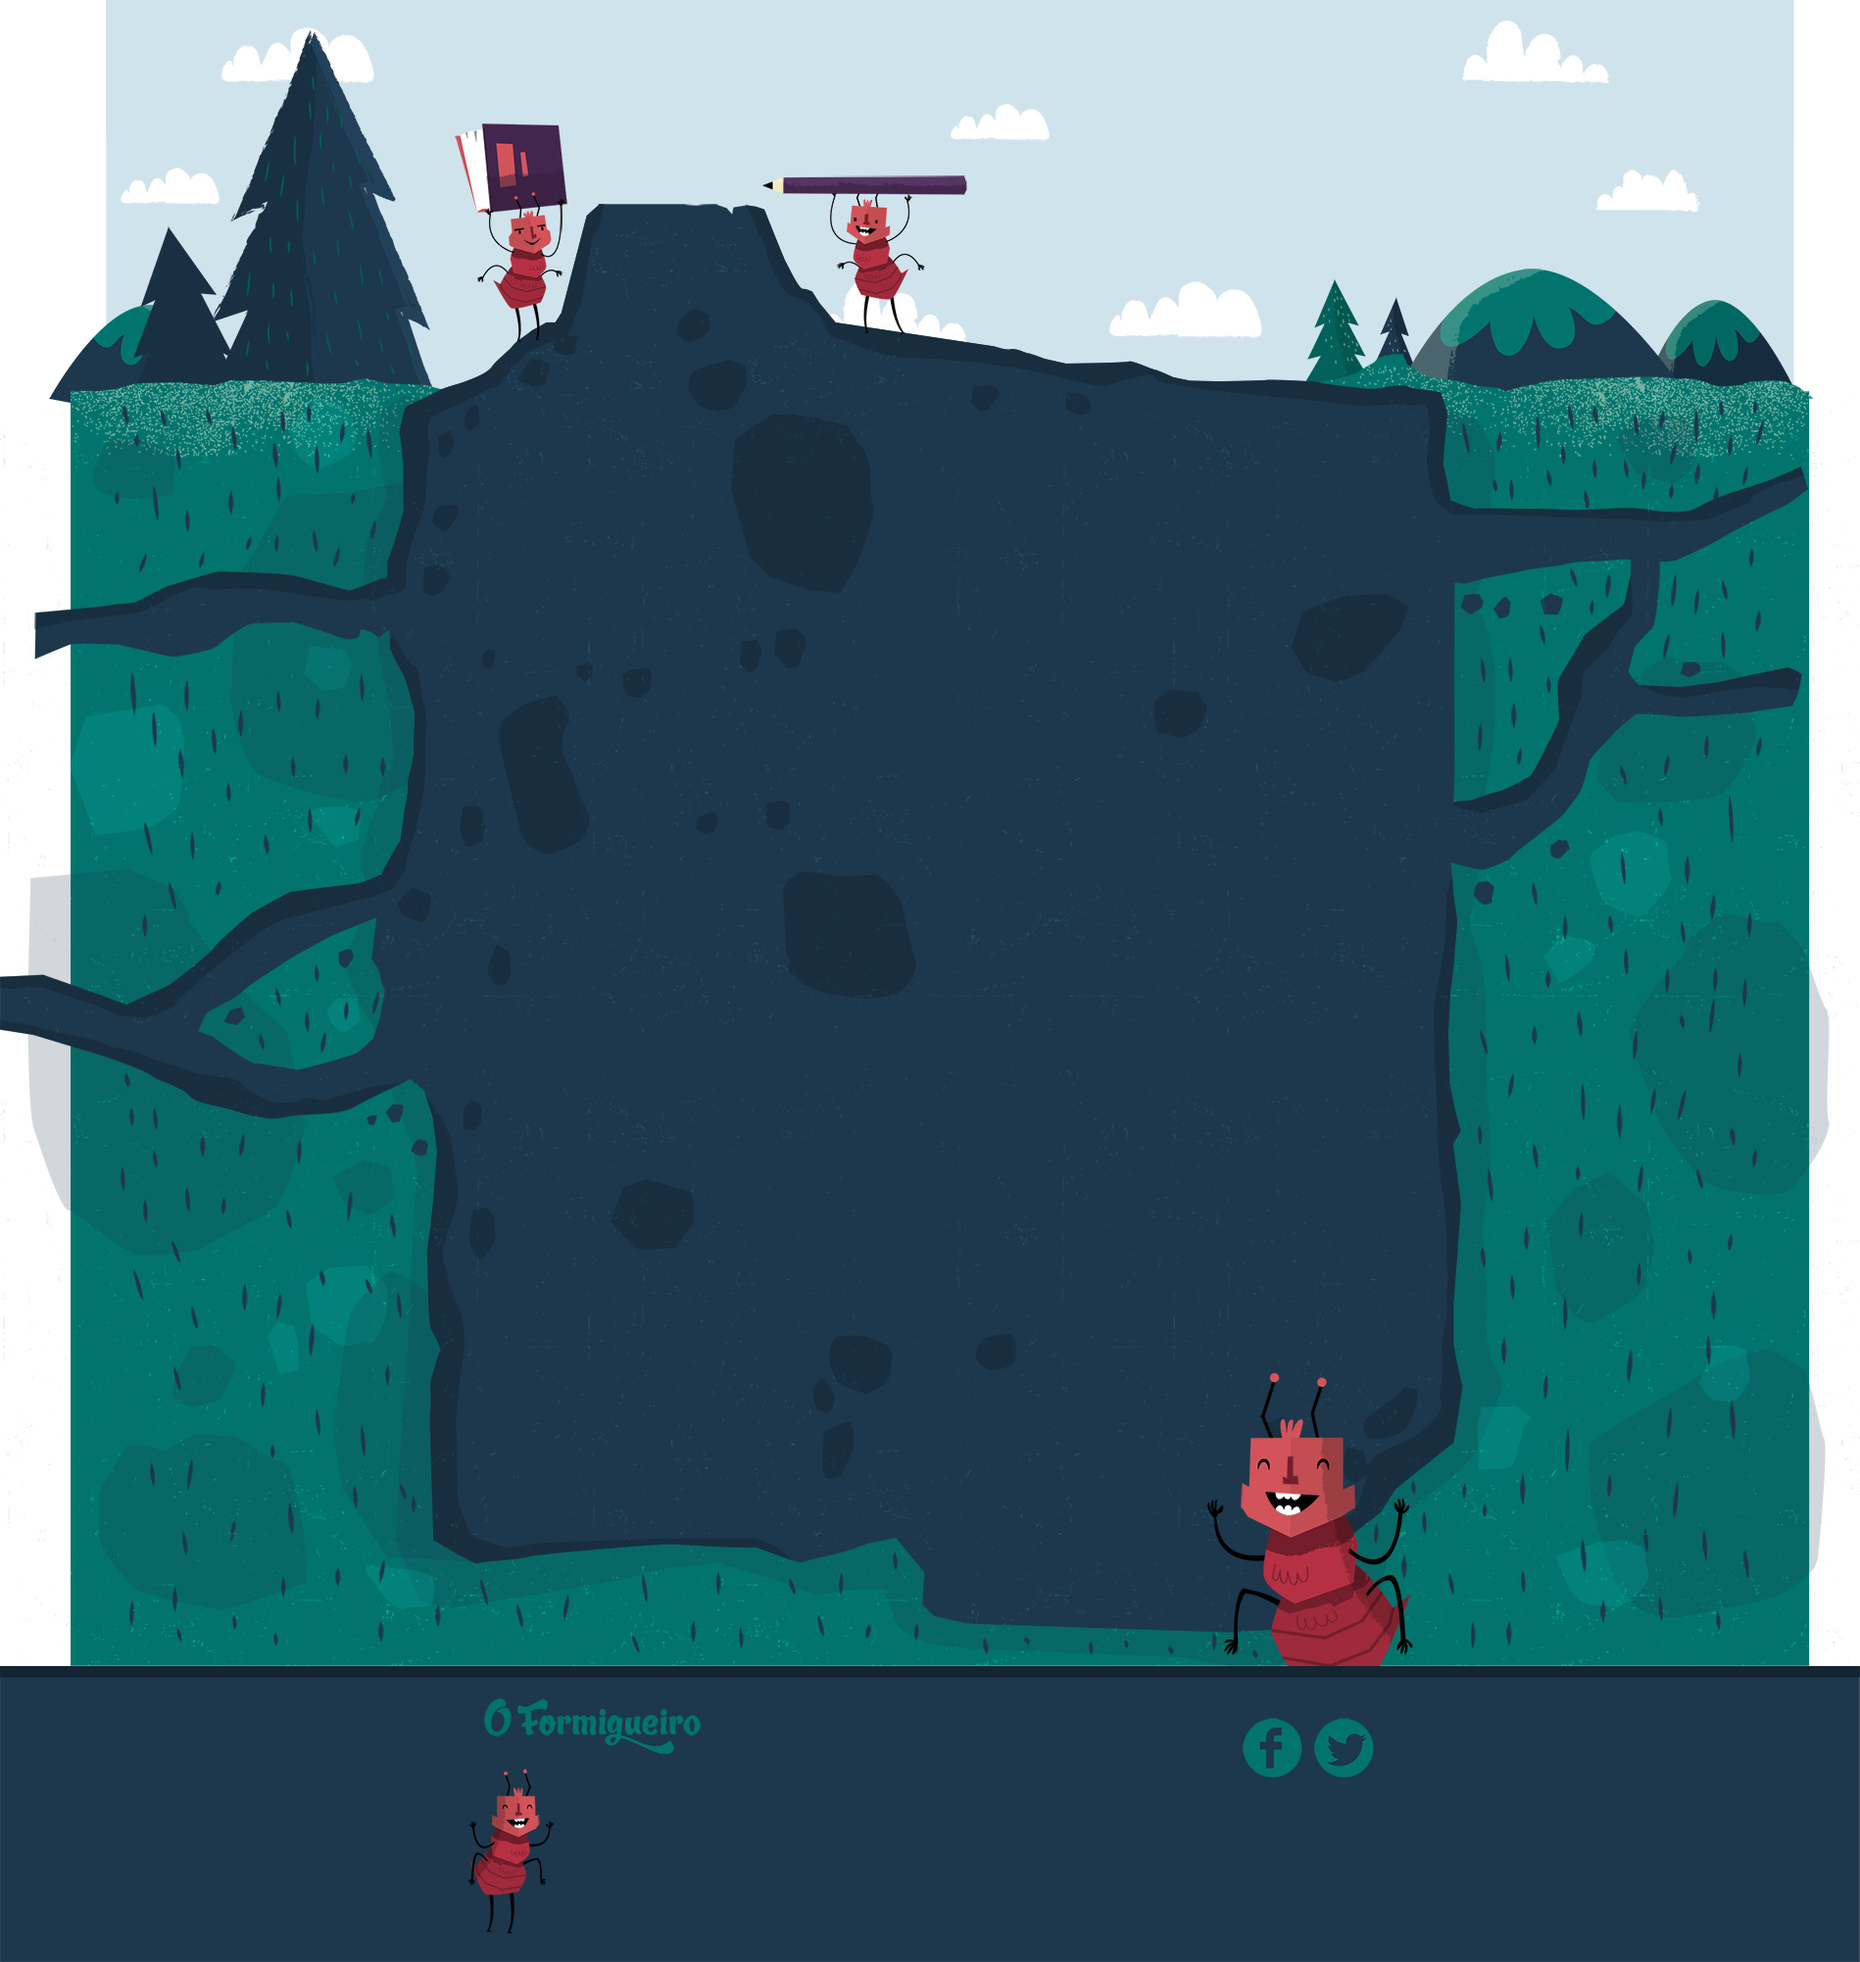
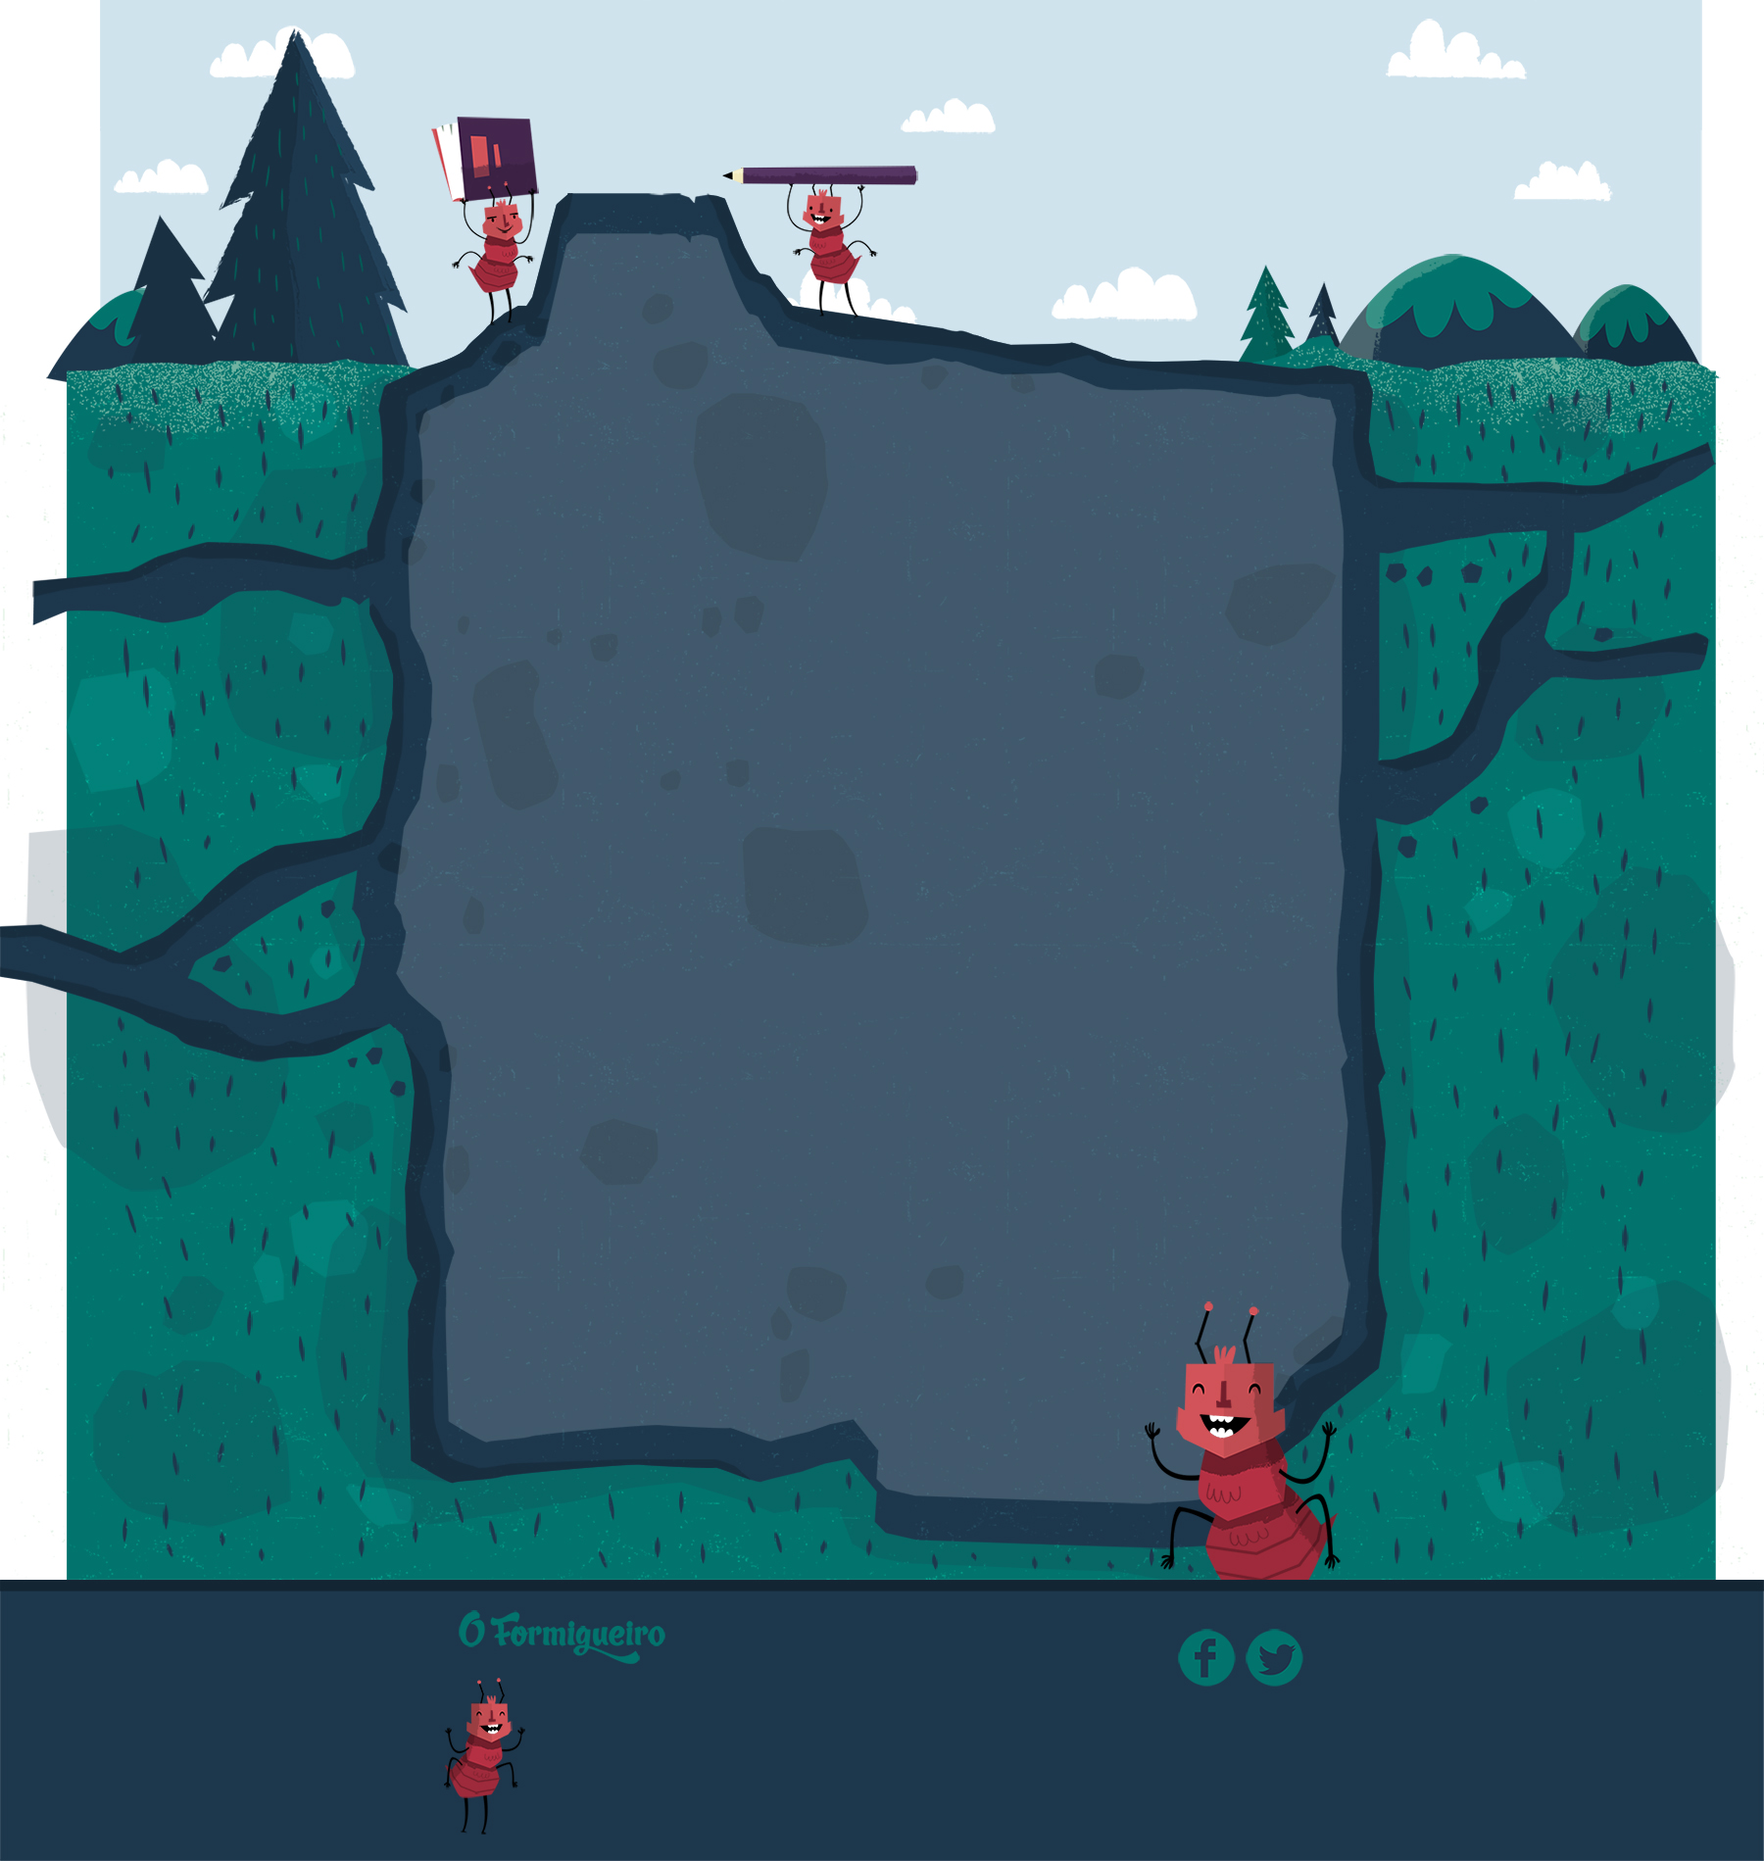
layout14

diff --git a/app/assets/stylesheets/content/_body.sass b/app/assets/stylesheets/content/_body.sass
@@ -11,7 +11,8 @@ body
     .container
       +grid-system(16)
       +border-radius(4px)
-      padding: 0 10px 0 10px
+      padding-left: 250px
+      padding-top: 50px
       margin-bottom: 40px
 
       .main

diff --git a/config/routes.rb b/config/routes.rb
@@ -149,6 +149,6 @@ Catarse::Application.routes.draw do
   match "/:permalink" => "projects#show", as: :project_by_slug
 
   # Root path
-  root to: 'projects#index'
+  root to: 'explore#recommended#index'
 
 end
